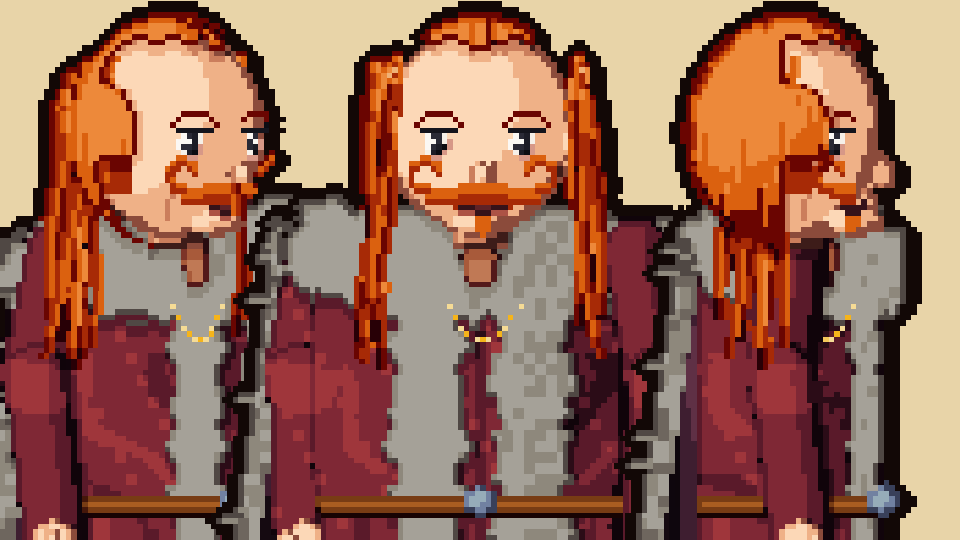
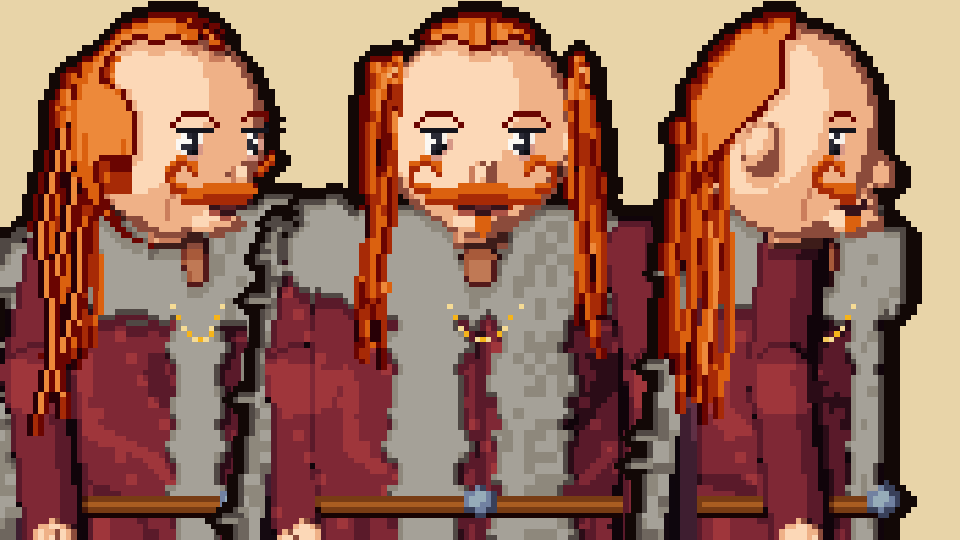
Planche 75 v2 : duc de biais (petites mèches, plus de trait sous la moustache) et de profil (côté dégarni, chevelure à l'arrière)
Claude-Session: https://claude.ai/code/session_018kbaP56NxxNMUzmj9EfKBC

diff --git a/src/corpsVueHD.js b/src/corpsVueHD.js
@@ -1201,7 +1201,8 @@ function dessinerCorpsVue(g, tenue = 1, costume = null, pas = 0, pose = null, vu
             if (dansTete(x, y) && y < cy + P.ry * 0.55) {
               // sur le crâne : tout ce qui est derrière une ligne qui passe juste devant l'oreille et recule vers le haut (le front dégarni)
               const recul = Math.max(0, (cy - P.ry * 0.2) - y) * 0.55;
-              dedans = f < P.rx * 0.32 - recul;
+              // (de profil : le côté de la tête est dégarni ; la limite recule doucement vers l'arrière en descendant, l'oreille reste nue)
+              dedans = profilDuc ? f < P.rx * 0.15 - recul - Math.max(0, y - (cy - P.ry * 0.45)) * 1.3 : f < P.rx * 0.32 - recul;
             }
             if (!dedans) continue;
             if (y > basM - hachage(Math.floor(x / k), 3, 71) * 4 * k) continue;   // (les pointes effilées)
@@ -1220,13 +1221,18 @@ function dessinerCorpsVue(g, tenue = 1, costume = null, pas = 0, pose = null, vu
         if (!dos) {
           const basM = yT + 12 * k, xe0 = X(pres * P.rx * 0.95, -0.1 * P.rx), av0 = s > 0 ? 1 : -1;
           const surVisage = (x, y) => { if (y > cy + P.ry * 0.95) return false; if (Math.abs(s) < 0.2) return Math.abs(x + 0.5 - cx) < P.rx * 0.74; return (x + 0.5 - xe0) * av0 > P.rx * 0.28; };
-          const N = 11;
+          const N = 11, biais = Math.abs(s) >= 0.2;
           for (const cote of [-1, 1]) {
+            if (biais && cote !== pres) continue;   // (de biais et de profil : seulement le côté qui nous fait face)
             const u0 = cote * P.rx * 0.93;
             for (let i = 0; i < N; i++) {
-              const ta = i / (N - 1), z0 = -P.rx * (0.02 + 0.62 * ta);
-              if (Z(u0, z0) < -P.rx * 0.72) continue;   // (de l'autre côté de la tête : on ne la voit pas)
-              const y0 = Math.round(cy - P.ry * (0.72 - 0.5 * ta * ta)), y1 = Math.round(basM - hachage(i, cote + 2, 73) * 5 * k);
+              const ta = i / (N - 1);
+              // de profil, la chevelure tombe de l'arrière du crâne, derrière la nuque (jamais sur la joue ni sur l'oreille)
+              const z0 = profilDuc ? -P.rx * (0.6 + 0.55 * ta) : -P.rx * (0.02 + 0.62 * ta);
+              if (!profilDuc && Z(u0, z0) < -P.rx * 0.72) continue;   // (de l'autre côté de la tête : on ne la voit pas)
+              const zn = Math.min(1, -z0 / P.rx);
+              const y0 = Math.round(profilDuc ? cy - P.ry * Math.sqrt(Math.max(0.01, 1 - zn * zn)) * 0.95 : cy - P.ry * (0.72 - 0.5 * ta * ta));
+              const y1 = Math.round(basM + (profilDuc ? 5 * k : 0) - hachage(i, cote + 2, 73) * 5 * k);
               const ton = [3, 2, 3, 2, 4, 2, 3, 1, 3, 2, 3][i];
               for (let y = y0; y <= y1; y++) {
                 const dy = y - y0, u = u0 + cote * (dy * 0.06 + (i % 3) * 0.55 * k * Math.abs(c)), z = z0 - dy * 0.03 - (i % 2) * 0.4 * k * Math.abs(s);
@@ -1235,6 +1241,19 @@ function dessinerCorpsVue(g, tenue = 1, costume = null, pas = 0, pose = null, vu
                   if (m === 'blanc' || m === 'pupille' || m === 'iris' || (m === 'peau' && surVisage(xx, y))) continue;
                   t.poser(xx, y, 'cheveux', Math.max(0, Math.min(5, ton + (dy < 2 * k ? 1 : 0) - (y > y1 - 2 * k ? 1 : 0) - (e === k - 1 ? 1 : 0)))); }
               }
+            }
+          }
+          // de biais : trois petites mèches fines et bien séparées, posées par-dessus, qui partent à hauteur des yeux et
+          // descendent un peu plus bas que la chevelure (comme les petits cheveux de face)
+          if (biais && !profilDuc) for (let i = 0; i < 3; i++) {
+            const u0 = pres * P.rx * 0.98, z0 = -P.rx * [0.42, 0.6, 0.78][i];
+            const y0 = Math.round(cy - P.ry * 0.12 + i * 0.6 * k), y1 = Math.round(basM + (3 + i * 1.5) * k);
+            for (let y = y0; y <= y1; y++) {
+              const dy = y - y0, x = Math.round(X(u0 + pres * dy * 0.05, z0 - dy * 0.02) + Math.sin(y / (3.2 * k) + i * 2.1) * 0.7 * k);
+              for (let e = 0; e < k; e++) { const xx = x + e * pres, m = t.mat(xx, y);
+                if (m === 'blanc' || m === 'pupille' || m === 'iris' || (m === 'peau' && surVisage(xx, y))) continue;
+                t.poser(xx, y, 'cheveux', e === k - 1 ? 0 : (y > y1 - 2 * k ? 2 : 4)); }
+              t.poser(x - pres, y, 'cheveux', 1);   // (un fil sombre qui la détache de la masse)
             }
           }
         }

diff --git a/src/coiffuresHD.js b/src/coiffuresHD.js
@@ -142,6 +142,10 @@ const COIFFURES_HD = {
   // (la coupe militaire : un duvet ras partout)
   militaire: { nom: 'Militaire', dessus: C => calotteHD(C, { ras: true, gonfle: 0.4, hauteur: 0.7, frange: -0.52, ondes: 0.04 }) },
   degrade: { nom: 'Dégradé court', dessus: C => { cotesRases(C); calotteHD(C, { gonfle: 0.9, hauteur: 1.6, frange: -0.5, ondes: 0.05, limite: (nx, ny) => ny < -0.45 }); } },
+  // (planche 75 v2) le duc : la même coupe, mais de profil le côté de la tête est dégarni (l'oreille reste nue) et la limite
+  // des cheveux recule doucement vers l'arrière du crâne en descendant
+  degarniDuc: { nom: 'Dégarni (duc)', dessus: C => { const lim = (nx, ny, fz) => Math.abs(C.s) <= 0.85 || fz < 0.05 - Math.max(0, ny + 0.5) * 1.1;
+    calotteHD(C, { gonfle: 0.6, hauteur: 1.1, frange: -0.8, ondes: 0.02, limite: lim }); calotteHD(C, { gonfle: 0.7, hauteur: 1.2, frange: -0.72, ondes: 0, limite: (nx, ny, fz, fu) => Math.abs(fu) < 0.12 && lim(nx, ny, fz) }); } },
   degarni: { nom: 'Dégarni', dessus: C => { calotteHD(C, { gonfle: 0.6, hauteur: 1.1, frange: -0.8, ondes: 0.02 }); calotteHD(C, { gonfle: 0.7, hauteur: 1.2, frange: -0.72, ondes: 0, limite: (nx, ny, fz, fu) => Math.abs(fu) < 0.12 }); } },
   iroquoise: { nom: 'Iroquoise', marge: 7, dessus: C => { cotesRases(C); const { t, k, cy, P, s, c, X } = C;
     for (let i = -4; i <= 5; i++) { const z = i * P.rx * 0.2, ux = X(0, z), base = cy - Math.sqrt(Math.max(0, 1 - (z / P.rx) ** 2)) * P.ry - 0.5 * k, h = (6 + (i % 2) * 1.5 - Math.abs(i - 0.5) * 0.4) * k;

diff --git a/src/corpsHD.js b/src/corpsHD.js
@@ -32,7 +32,7 @@ const PROPORTIONS = {
 const FIGURANTS = {
   garde: { race: 'humain', nom: 'Garde', costume: 'garde', habit: 0x8a2a2a, cheveux: 0x3a2a1a },
   // (planche 75 v2, à valider) Pont-Royal : son duc, gras et arrogant, et la garde du pont
-  duc: { race: 'humain', nom: 'Le duc Aldebert Pansard', costume: 'duc', habit: 0x5a1a26, cheveux: 0xc0662a, barbe: 'moustache', coiffure: 'degarni', peau: 0, niveau: 3, proportions: { H: 70, ep: 15.2, torse: 26, rx: 8.6, ry: 9.4, membre: 1.25 }, cape: 0x3e1e30 },
+  duc: { race: 'humain', nom: 'Le duc Aldebert Pansard', costume: 'duc', habit: 0x5a1a26, cheveux: 0xc0662a, barbe: 'moustache', coiffure: 'degarniDuc', peau: 0, niveau: 3, proportions: { H: 70, ep: 15.2, torse: 26, rx: 8.6, ry: 9.4, membre: 1.25 }, cape: 0x3e1e30 },
   gardeRoyal: { race: 'humain', nom: 'Garde du pont', costume: 'gardeRoyal', habit: 0x1c1c24, cheveux: 0x1a1612, coiffure: 'long', niveau: 2, fache: true },
   banquier: { race: 'humain', nom: 'Banquier', costume: 'banquier', habit: 0x26262e, cheveux: 0x1a1a20 },
   nainBanquier: { race: 'nain', nom: 'Thorgrim', costume: 'banquier', habit: 0x26262e, cheveux: 0xe0e0e0 },

diff --git a/docs/game-design.md b/docs/game-design.md
@@ -3295,3 +3295,5 @@ Idée du joueur : la couleur par sujet portée par des pierres précieuses sur l
   - **Corrigé** : de biais et de profil, la chevelure tombe sur le côté de la tête qui nous fait face : elle part du haut du crâne (le front reste dégarni), couvre l'oreille, se resserre un peu sous la mâchoire puis s'étale sur l'épaule de notre côté, en mèches ondulées avec des raies sombres et des pointes effilées. La vue de face ne change pas.
 - **Retour suivant (23/10)**, avec un croquis : les petits cheveux longs de la vue de face disparaissent de biais et de profil, alors qu'ils devraient y être des deux côtés ; de face, ils doivent partir de bien plus haut (à mi-hauteur de la tête), et ce sont des cheveux détachés, pas attachés.
   - **Corrigé** : une seule chevelure en mèches fines, détachées et ondulées, pour les trois vues : elles partent du côté du crâne à la hauteur des tempes et tombent librement jusque sur les épaules, des deux côtés quand on les voit (de biais : celles de derrière dépassent derrière la joue ; de profil : seulement le côté qui nous fait face) ; les pointes sont effilées, et elles ne passent jamais sur le visage.
+- **Retour suivant (23/10, deux croquis)** : de biais, un trait qui part de la moustache ne se comprend pas ; la chevelure de biais est validée (« on touche plus »), mais il faut y ajouter de petites mèches fines comme celles de face, aux trois traits dessinés ; de profil, les cheveux ne doivent pas couvrir le côté du visage (la croix) : ils partent du haut du crâne avec un côté dégarni et vont doucement vers la chevelure de derrière.
+  - **Corrigé** : de biais, la mèche de l'autre côté (celle qui semblait sortir de la moustache) est retirée, et trois petites mèches fines et bien séparées, détachées par un fil sombre, partent à hauteur des yeux et descendent un peu plus bas que la chevelure. De profil, le duc a sa propre coupe (`degarniDuc`) : le côté de la tête est nu (on voit l'oreille), la limite des cheveux recule en diagonale du haut du crâne vers la nuque, et les longues mèches tombent de l'arrière du crâne, derrière la nuque, dans le dos. La vue de face ne change pas.
